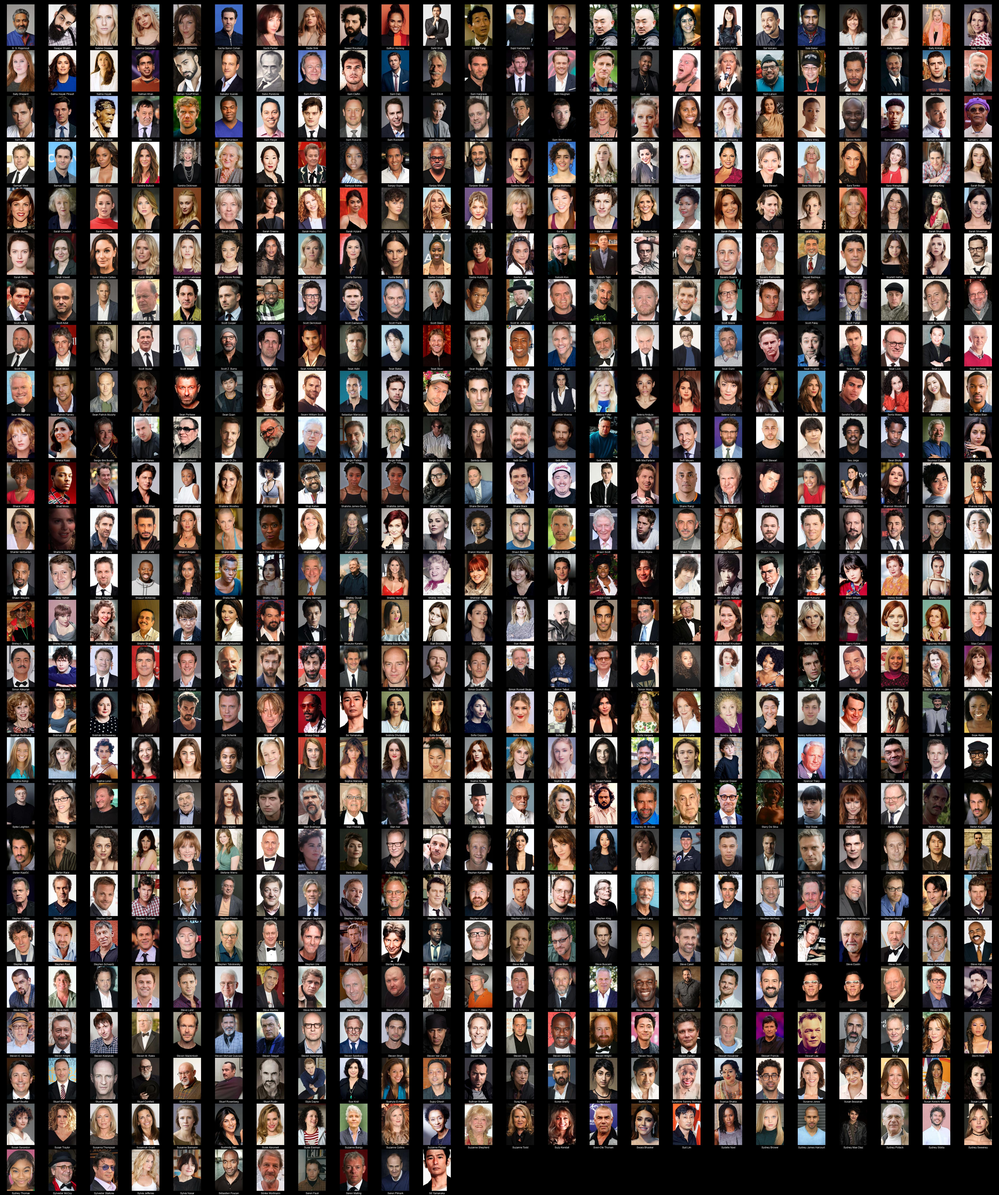
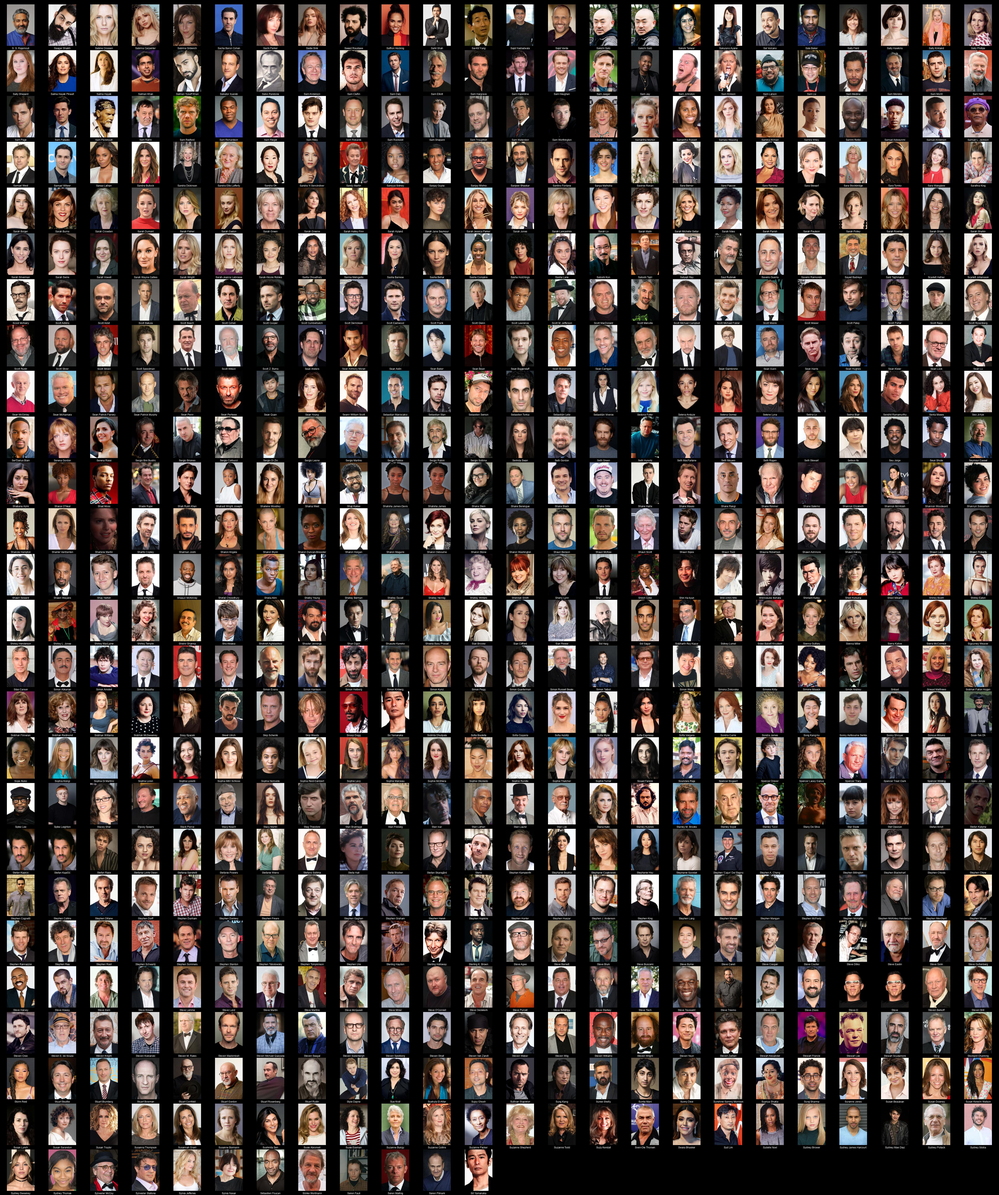
Readme Update

diff --git a/README.md b/README.md
@@ -1,4 +1,4 @@
-# Plex Meta Manager People - Original (8801 Images)
+# Plex Meta Manager People - Original (8802 Images)
 
 <details><summary><a href="'">' (1 Images)</a></summary>
 
@@ -7438,7 +7438,7 @@
 * [Ryunosuke Kamiki](https://raw.githubusercontent.com/meisnate12/Plex-Meta-Manager-People/master/R/Images/Ryunosuke%20Kamiki.jpg)
 * [Ryusuke Hamaguchi](https://raw.githubusercontent.com/meisnate12/Plex-Meta-Manager-People/master/R/Images/Ryusuke%20Hamaguchi.jpg)
 </details>
-<details><summary><a href="S">S (611 Images)</a></summary>
+<details><summary><a href="S">S (612 Images)</a></summary>
 
 * [S. S. Rajamouli](https://raw.githubusercontent.com/meisnate12/Plex-Meta-Manager-People/master/S/Images/S.%20S.%20Rajamouli.jpg)
 * [Saagar Shaikh](https://raw.githubusercontent.com/meisnate12/Plex-Meta-Manager-People/master/S/Images/Saagar%20Shaikh.jpg)
@@ -7519,6 +7519,7 @@
 * [Sandra Dickinson](https://raw.githubusercontent.com/meisnate12/Plex-Meta-Manager-People/master/S/Images/Sandra%20Dickinson.jpg)
 * [Sandra Ellis Lafferty](https://raw.githubusercontent.com/meisnate12/Plex-Meta-Manager-People/master/S/Images/Sandra%20Ellis%20Lafferty.jpg)
 * [Sandra Oh](https://raw.githubusercontent.com/meisnate12/Plex-Meta-Manager-People/master/S/Images/Sandra%20Oh.jpg)
+* [Sandra Yi Sencindiver](https://raw.githubusercontent.com/meisnate12/Plex-Meta-Manager-People/master/S/Images/Sandra%20Yi%20Sencindiver.jpg)
 * [Sandy Martin](https://raw.githubusercontent.com/meisnate12/Plex-Meta-Manager-People/master/S/Images/Sandy%20Martin.jpg)
 * [Saniyya Sidney](https://raw.githubusercontent.com/meisnate12/Plex-Meta-Manager-People/master/S/Images/Saniyya%20Sidney.jpg)
 * [Sanjay Gupta](https://raw.githubusercontent.com/meisnate12/Plex-Meta-Manager-People/master/S/Images/Sanjay%20Gupta.jpg)

diff --git a/S/README.md b/S/README.md
@@ -1,4 +1,4 @@
-# Plex Meta Manager People - Original - S (611 Images)
+# Plex Meta Manager People - Original - S (612 Images)
 ![Grid](grid.jpg)
 
 * [S. S. Rajamouli](https://raw.githubusercontent.com/meisnate12/Plex-Meta-Manager-People/master/S/Images/S.%20S.%20Rajamouli.jpg)
@@ -80,6 +80,7 @@
 * [Sandra Dickinson](https://raw.githubusercontent.com/meisnate12/Plex-Meta-Manager-People/master/S/Images/Sandra%20Dickinson.jpg)
 * [Sandra Ellis Lafferty](https://raw.githubusercontent.com/meisnate12/Plex-Meta-Manager-People/master/S/Images/Sandra%20Ellis%20Lafferty.jpg)
 * [Sandra Oh](https://raw.githubusercontent.com/meisnate12/Plex-Meta-Manager-People/master/S/Images/Sandra%20Oh.jpg)
+* [Sandra Yi Sencindiver](https://raw.githubusercontent.com/meisnate12/Plex-Meta-Manager-People/master/S/Images/Sandra%20Yi%20Sencindiver.jpg)
 * [Sandy Martin](https://raw.githubusercontent.com/meisnate12/Plex-Meta-Manager-People/master/S/Images/Sandy%20Martin.jpg)
 * [Saniyya Sidney](https://raw.githubusercontent.com/meisnate12/Plex-Meta-Manager-People/master/S/Images/Saniyya%20Sidney.jpg)
 * [Sanjay Gupta](https://raw.githubusercontent.com/meisnate12/Plex-Meta-Manager-People/master/S/Images/Sanjay%20Gupta.jpg)
